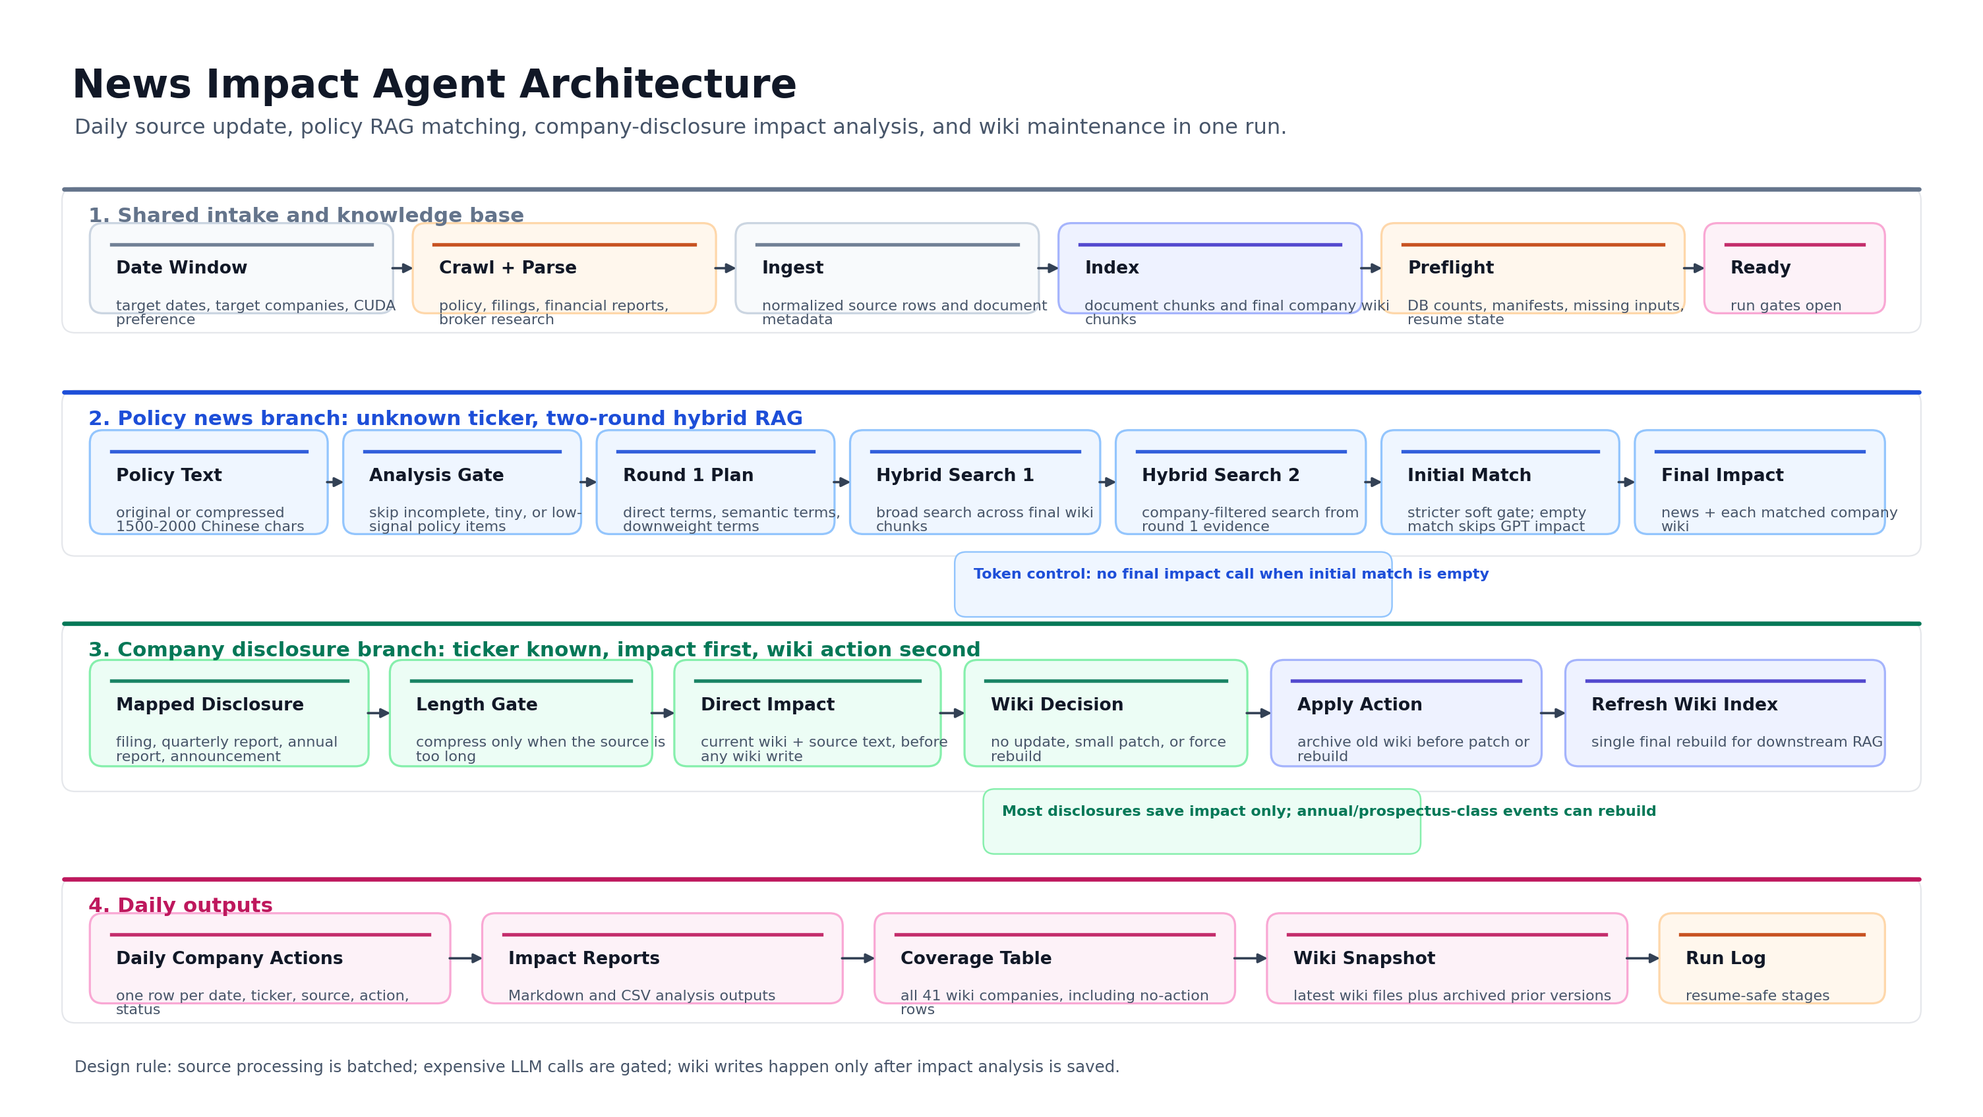
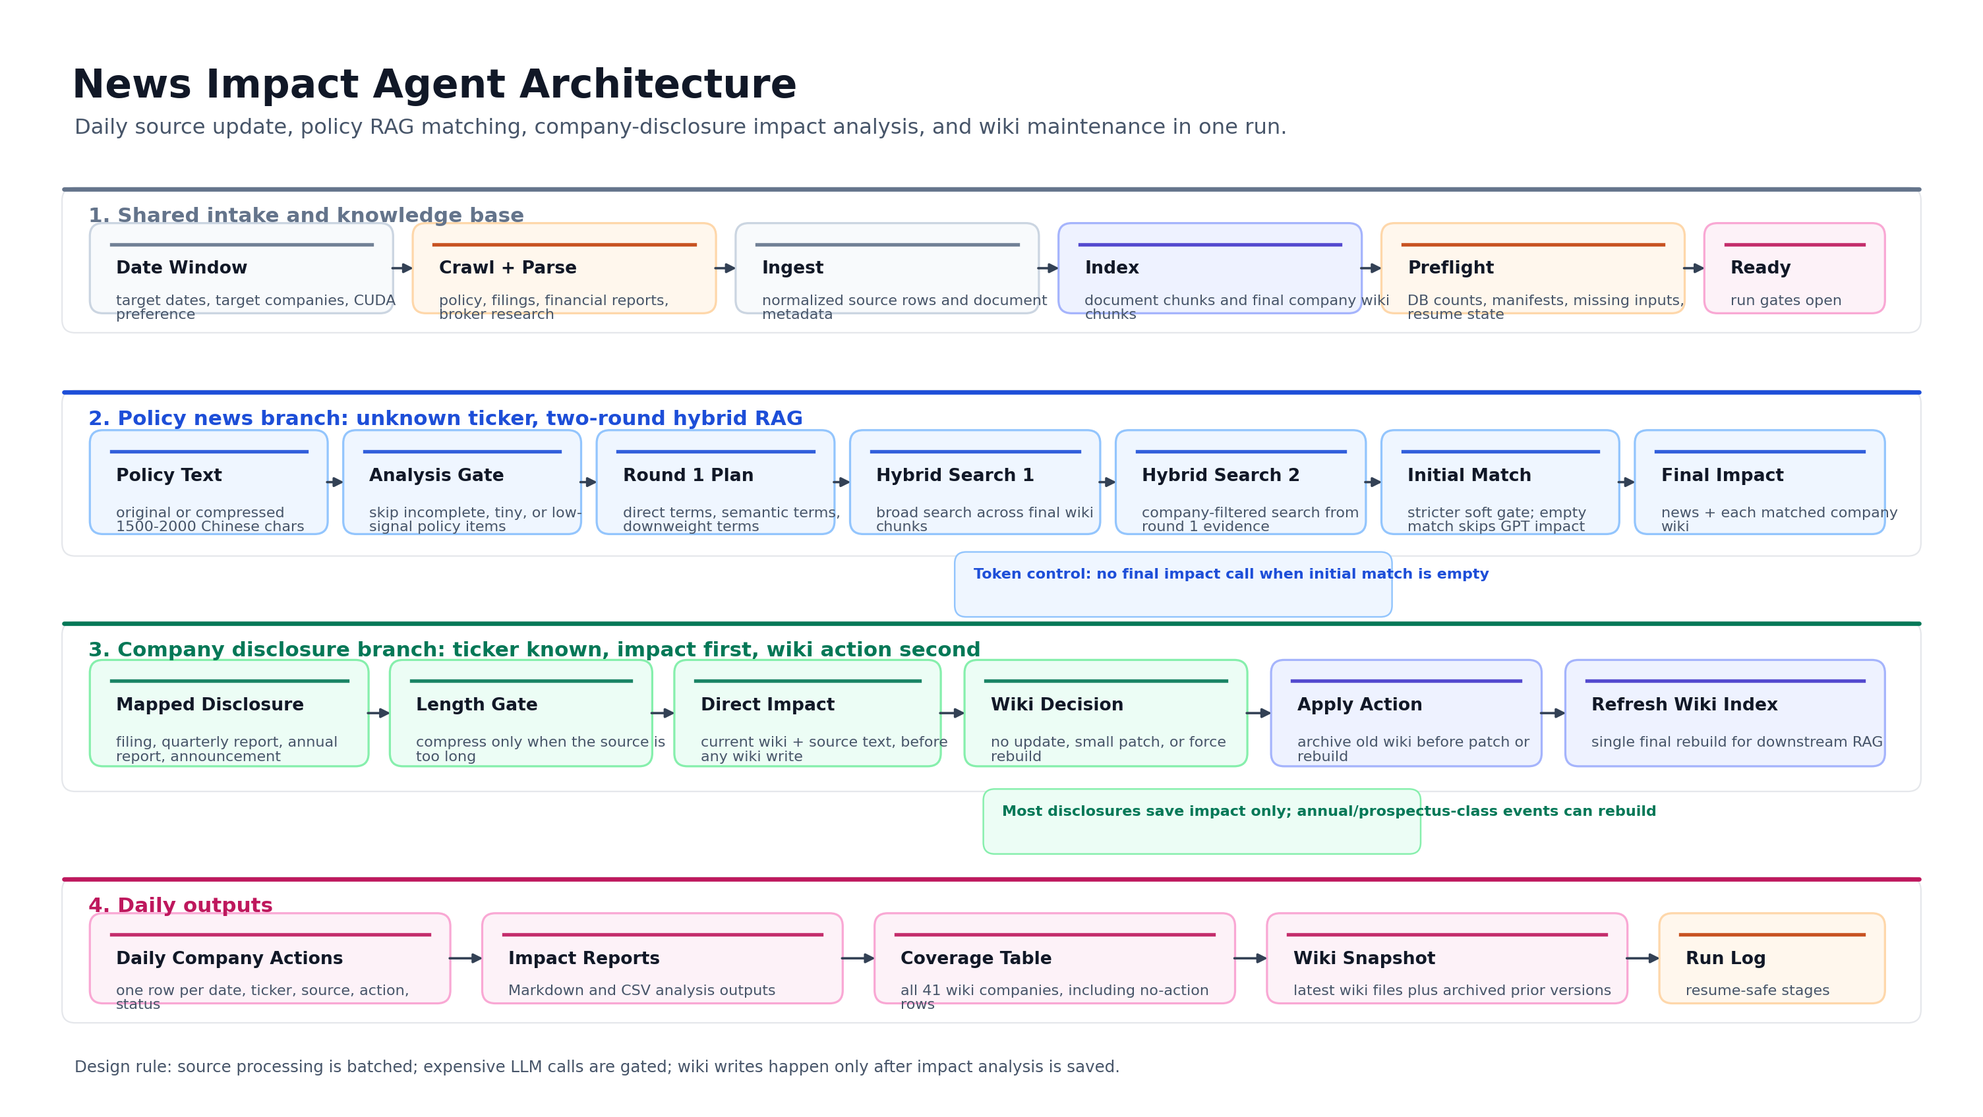
Improve wiki builder architecture documentation

diff --git a/daily_news_impact_pipeline/scripts/render_architecture_assets.py b/daily_news_impact_pipeline/scripts/render_architecture_assets.py
@@ -81,16 +81,27 @@ def box(
     )
     ax.plot([x + 0.18, x + w - 0.18], [y + h - 0.18, y + h - 0.18], color=accent, linewidth=2.4, alpha=0.9)
     ax.text(x + 0.24, y + h - 0.38, title, fontsize=title_size, fontweight="bold", color=INK, va="top")
-    max_lines = 2 if h <= 1.0 else 3
+    if h <= 0.9:
+        max_lines = 1
+        body_y = y + h - 0.70
+        line_spacing = 1.0
+    elif h <= 1.05:
+        max_lines = 2
+        body_y = y + h - 0.80
+        line_spacing = 1.02
+    else:
+        max_lines = 3
+        body_y = y + h - 0.86
+        line_spacing = 1.08
     body_lines = wrap(body, width=max(18, int(w * 11)))[:max_lines]
     ax.text(
         x + 0.24,
-        y + h - 0.86,
+        body_y,
         "\n".join(body_lines),
         fontsize=body_size,
         color=MUTED,
         va="top",
-        linespacing=1.08,
+        linespacing=line_spacing,
     )
 
 
@@ -569,6 +580,298 @@ def render_full_wiki_builder_detail() -> Path:
     return out
 
 
+def render_wiki_build_agent() -> Path:
+    fig, ax = new_canvas(
+        "Company Wiki Build Agent: Mode Map",
+        "Two wiki builders share the same document corpus and publishing contract, but optimize for different latency and depth.",
+    )
+
+    lane(ax, 9.35, 1.75, "Shared corpus and index foundation", "source")
+    foundation = [
+        (1.05, 9.68, 3.35, 0.98),
+        (4.85, 9.68, 3.35, 0.98),
+        (8.65, 9.68, 3.35, 0.98),
+        (12.45, 9.68, 4.05, 0.98),
+        (16.95, 9.68, 4.75, 0.98),
+    ]
+    box(ax, *foundation[0], "Document Corpus", "annual reports, prospectuses, filings, broker research", "source")
+    box(ax, *foundation[1], "LLM-Ready Text", "parsed Markdown with metadata and body sidecars", "source")
+    box(ax, *foundation[2], "Chunk Index", "text, table rows, table bridges, embeddings", "wiki")
+    box(ax, *foundation[3], "Company Identity", "aliases, products, entities, trigger terms", "source")
+    box(ax, *foundation[4], "Preflight", "corpus status, missing index, resume state, run events", "control")
+    arrow_chain(ax, foundation)
+
+    lane(ax, 6.35, 2.05, "Reduced builder: daily default after material source updates", "wiki")
+    reduced = [
+        (1.05, 6.75, 3.3, 1.08),
+        (4.8, 6.75, 3.3, 1.08),
+        (8.55, 6.75, 3.3, 1.08),
+        (12.3, 6.75, 3.5, 1.08),
+        (16.25, 6.75, 5.45, 1.08),
+    ]
+    box(ax, *reduced[0], "Source Rules", "latest annual, latest periodic, origin doc, recent material events", "wiki")
+    box(ax, *reduced[1], "Brainstormer", "Qwen JSON plan: terms, selected docs, downweight terms", "policy")
+    box(ax, *reduced[2], "Retrieval Executor", "heading, direct/body, semantic passes with fallbacks", "wiki")
+    box(ax, *reduced[3], "Source Package", "writer-visible evidence; trace saved separately", "wiki")
+    box(ax, *reduced[4], "Reduced Writer", "Kimi writes compact 2000-4000 Chinese-char wiki from source package only", "wiki")
+    arrow_chain(ax, reduced)
+    callout(ax, 9.4, 5.35, "Brainstormer JSON controls retrieval; it is not evidence for the writer", "wiki")
+
+    lane(ax, 2.85, 2.45, "Full builder: deep company onboarding and review", "policy")
+    full = [
+        (1.05, 3.35, 3.05, 1.1),
+        (4.5, 3.35, 3.05, 1.1),
+        (7.95, 3.35, 3.05, 1.1),
+        (11.4, 3.35, 3.05, 1.1),
+        (14.85, 3.35, 3.05, 1.1),
+        (18.3, 3.35, 4.0, 1.1),
+    ]
+    box(ax, *full[0], "Anchor", "deterministic bundle to anchor memo and first brief", "source")
+    box(ax, *full[1], "Research Loop V1", "router -> 1-4 planner subagents -> evidence bank", "policy")
+    box(ax, *full[2], "Draft + Valuation V1", "draft_1, method selection, assumptions, calculators", "control")
+    box(ax, *full[3], "Critic", "draft, valuation, evidence, gaps, stale facts", "control")
+    box(ax, *full[4], "Research + Valuation V2", "critic-driven second research and refreshed valuation", "policy")
+    box(ax, *full[5], "Final Wiki Writer", "GPT-5.5 high reasoning synthesizes one durable company_wiki.md", "output")
+    arrow_chain(ax, full)
+
+    lane(ax, 0.82, 1.45, "Shared publication contract", "output")
+    publish = [
+        (1.05, 1.05, 4.2, 0.72),
+        (5.75, 1.05, 4.2, 0.72),
+        (10.45, 1.05, 4.2, 0.72),
+        (15.15, 1.05, 3.8, 0.72),
+        (19.45, 1.05, 3.4, 0.72),
+    ]
+    box(ax, *publish[0], "Final Markdown Wiki", "retrieval + reasoning object", "output", title_size=10, body_size=8)
+    box(ax, *publish[1], "Archive Old Version", "previous final wiki is retained", "control", title_size=10, body_size=8)
+    box(ax, *publish[2], "Manifest", "source roles and build metadata", "output", title_size=10, body_size=8)
+    box(ax, *publish[3], "Index Refresh", "hybrid wiki RAG chunks", "wiki", title_size=10, body_size=8)
+    box(ax, *publish[4], "Downstream Impact", "policy and disclosure agents", "output", title_size=10, body_size=8)
+    arrow_chain(ax, publish)
+
+    out = ASSET_DIR / "wiki_build_agent_architecture.png"
+    ASSET_DIR.mkdir(parents=True, exist_ok=True)
+    fig.savefig(out, bbox_inches="tight", facecolor="white")
+    plt.close(fig)
+    return out
+
+
+def render_reduced_wiki_builder_detail() -> Path:
+    fig, ax = new_canvas(
+        "Reduced Wiki Builder: Two-Node Retrieval Package Pipeline",
+        "Reduced wiki generation separates planning from evidence. The writer sees only the deterministic source package.",
+    )
+
+    lane(ax, 9.55, 1.55, "1. Build brainstormer input", "source")
+    inputs = [
+        (1.05, 9.85, 3.3, 0.88),
+        (4.75, 9.85, 3.3, 0.88),
+        (8.45, 9.85, 3.3, 0.88),
+        (12.15, 9.85, 3.3, 0.88),
+        (15.85, 9.85, 5.55, 0.88),
+    ]
+    box(ax, *inputs[0], "Company Info", "ticker, name, industry, valuation context", "source", body_size=9)
+    box(ax, *inputs[1], "Tiny Primer", "small semantic snippets from fixed sources", "source", body_size=9)
+    box(ax, *inputs[2], "Fixed Search Contract", "cached sessions and required JSON shape", "control", body_size=9)
+    box(ax, *inputs[3], "File Availability", "fixed sources, announcement candidates, research candidates", "source", body_size=9)
+    box(ax, *inputs[4], "Brainstormer Input", "system prompt + cached fixed context + dynamic user prompt", "policy", body_size=9)
+    arrow_chain(ax, inputs)
+
+    lane(ax, 6.65, 2.05, "2. Brainstormer node: retrieval control only", "policy")
+    plan = [
+        (1.05, 7.08, 3.2, 1.1),
+        (4.7, 7.08, 3.2, 1.1),
+        (8.35, 7.08, 3.2, 1.1),
+        (12.0, 7.08, 3.2, 1.1),
+        (15.65, 7.08, 5.75, 1.1),
+    ]
+    box(ax, *plan[0], "Qwen Brainstormer", "thinking + explicit cache, JSON content required", "policy")
+    box(ax, *plan[1], "Company Terms", "products, technologies, customers, assets, risks, stages", "policy")
+    box(ax, *plan[2], "Selected Docs", "up to 6 announcements and 2 research reports", "policy")
+    box(ax, *plan[3], "Session Overrides", "extra keywords and semantic queries per session", "policy")
+    box(ax, *plan[4], "Negative Terms", "meeting, dividend, governance, legal, sponsor and other noise", "control")
+    arrow_chain(ax, plan)
+    callout(ax, 7.2, 5.78, "Plan doc_ids are validated against corpus; invalid selections are logged and ignored", "policy")
+
+    lane(ax, 3.55, 2.35, "3. Deterministic source package executor", "wiki")
+    executor = [
+        (1.05, 4.02, 3.05, 1.15),
+        (4.5, 4.02, 3.05, 1.15),
+        (7.95, 4.02, 3.05, 1.15),
+        (11.4, 4.02, 3.05, 1.15),
+        (14.85, 4.02, 3.05, 1.15),
+        (18.3, 4.02, 4.0, 1.15),
+    ]
+    box(ax, *executor[0], "Source Selection", "fixed sources first; plan selections with fallback rules", "wiki")
+    box(ax, *executor[1], "8 Sessions", "surface, business, products, counterparties, finance, capital, industry, freshness", "wiki")
+    box(ax, *executor[2], "Search Passes", "heading, body/direct, semantic", "wiki")
+    box(ax, *executor[3], "Rerank + Diversity", "dedupe, downweight noise, doc/heading/table caps", "wiki")
+    box(ax, *executor[4], "Expansion", "same chunk, same heading, table, neighbor window", "wiki")
+    box(ax, *executor[5], "Fallback", "relaxed heading, broader chunk kinds, base semantic, thin section if still missing", "control")
+    arrow_chain(ax, executor)
+
+    lane(ax, 1.0, 1.75, "4. Writer and audit artifacts", "output")
+    writer = [
+        (1.05, 1.35, 3.9, 0.95),
+        (5.45, 1.35, 3.9, 0.95),
+        (9.85, 1.35, 3.9, 0.95),
+        (14.25, 1.35, 3.9, 0.95),
+        (18.65, 1.35, 3.65, 0.95),
+    ]
+    box(ax, *writer[0], "Source Package", "only Sources, Session, Selected text enter writer prompt", "wiki")
+    box(ax, *writer[1], "Retrieval Trace", "full terms, chunk IDs, scores, passes saved beside prompt", "control")
+    box(ax, *writer[2], "Kimi Wiki Writer", "writes from source package only", "policy")
+    box(ax, *writer[3], "Reduced Wiki", "2000-4000 Chinese chars; Markdown; source-bound", "output")
+    box(ax, *writer[4], "Usage + Run Meta", "cost, cache, attempts, parse status", "output")
+    arrow_chain(ax, writer)
+
+    out = ASSET_DIR / "reduced_wiki_builder_detail.png"
+    ASSET_DIR.mkdir(parents=True, exist_ok=True)
+    fig.savefig(out, bbox_inches="tight", facecolor="white")
+    plt.close(fig)
+    return out
+
+
+def render_full_wiki_builder_detail() -> Path:
+    fig, ax = new_canvas(
+        "Full Wiki Builder: v3 Artifact DAG",
+        "The full agent builds one final company_wiki.md from anchor research, two company research loops, valuation loops, critic feedback, and final synthesis.",
+    )
+
+    lane(ax, 9.7, 1.45, "1. Anchor and first business agenda", "source")
+    anchor = [
+        (1.05, 9.98, 3.45, 0.82),
+        (4.95, 9.98, 3.45, 0.82),
+        (8.85, 9.98, 3.45, 0.82),
+        (12.75, 9.98, 3.45, 0.82),
+        (16.65, 9.98, 4.7, 0.82),
+    ]
+    box(ax, *anchor[0], "Anchor Source Bundle", "latest annual, periodic-like, prospectus-like", "source", body_size=8)
+    box(ax, *anchor[1], "Anchor", "long-form anchor_memo", "policy", body_size=8)
+    box(ax, *anchor[2], "Company Brief V1", "short repeated-read briefing", "policy", body_size=8)
+    box(ax, *anchor[3], "Research Goals V1", "first company-research agenda", "policy", body_size=8)
+    box(ax, *anchor[4], "Corpus Manifest", "raw families, post-annual windows, stock reports", "source", body_size=8)
+    arrow_chain(ax, anchor)
+
+    lane(ax, 7.05, 1.7, "2. Round-one company research and draft", "policy")
+    research1 = [
+        (1.05, 7.38, 3.1, 0.95),
+        (4.55, 7.38, 3.1, 0.95),
+        (8.05, 7.38, 3.1, 0.95),
+        (11.55, 7.38, 3.1, 0.95),
+        (15.05, 7.38, 3.1, 0.95),
+        (18.55, 7.38, 3.8, 0.95),
+    ]
+    box(ax, *research1[0], "Router V1", "1-4 operational subagents", "policy", body_size=8)
+    box(ax, *research1[1], "Planner Loop V1", "tools, working memory, done state", "policy", body_size=8)
+    box(ax, *research1[2], "Evidence Bank V1", "committed source-located facts", "control", body_size=8)
+    box(ax, *research1[3], "Loop Note V1", "track-keyed mutable synthesis", "control", body_size=8)
+    box(ax, *research1[4], "Draft Writer V1", "anchor + evidence + note", "wiki", body_size=8)
+    box(ax, *research1[5], "Draft 1", "first full company draft", "wiki", body_size=8)
+    arrow_chain(ax, research1)
+
+    lane(ax, 4.4, 1.7, "3. Valuation v1 and critic", "control")
+    valuation1 = [
+        (1.05, 4.73, 3.25, 0.95),
+        (4.75, 4.73, 3.25, 0.95),
+        (8.45, 4.73, 3.25, 0.95),
+        (12.15, 4.73, 3.25, 0.95),
+        (15.85, 4.73, 3.25, 0.95),
+        (19.55, 4.73, 3.0, 0.95),
+    ]
+    box(ax, *valuation1[0], "Method Selector", "choose 3 methods from 9-method library", "control", body_size=8)
+    box(ax, *valuation1[1], "Valuation Loop V1", "router + planner loop + evidence bank", "control", body_size=8)
+    box(ax, *valuation1[2], "Assumption Reasoners", "parallel method-specific memos", "control", body_size=8)
+    box(ax, *valuation1[3], "JSON + Calculators", "deterministic bear/base/bull outputs", "control", body_size=8)
+    box(ax, *valuation1[4], "Valuation Memo V1", "anchors, checks, sensitivity, fragility", "control", body_size=8)
+    box(ax, *valuation1[5], "First Critic", "draft + valuation + evidence + external freshness checks", "output", body_size=8)
+    arrow_chain(ax, valuation1)
+
+    lane(ax, 1.45, 2.0, "4. Critic-driven round two and final synthesis", "output")
+    final = [
+        (1.05, 1.9, 3.15, 1.08),
+        (4.65, 1.9, 3.15, 1.08),
+        (8.25, 1.9, 3.15, 1.08),
+        (11.85, 1.9, 3.15, 1.08),
+        (15.45, 1.9, 3.15, 1.08),
+        (19.05, 1.9, 3.45, 1.08),
+    ]
+    box(ax, *final[0], "Brief V2", "anchor + draft_1 + critic_1", "policy")
+    box(ax, *final[1], "Router + Loop V2", "critic gaps drive second company research", "policy")
+    box(ax, *final[2], "Valuation Refresh V2", "fresh base packet, v2 assumptions, calculators", "control")
+    box(ax, *final[3], "Final Input Packet", "anchor, draft, critic, evidence banks, valuation memos, notes", "source")
+    box(ax, *final[4], "Final Wiki Writer", "GPT-5.5 high reasoning with web search", "output")
+    box(ax, *final[5], "company_wiki.md", "one durable integrated company wiki", "output")
+    arrow_chain(ax, final)
+
+    out = ASSET_DIR / "full_wiki_builder_detail.png"
+    ASSET_DIR.mkdir(parents=True, exist_ok=True)
+    fig.savefig(out, bbox_inches="tight", facecolor="white")
+    plt.close(fig)
+    return out
+
+
+def render_full_wiki_research_loop_detail() -> Path:
+    fig, ax = new_canvas(
+        "Full Wiki Research Loop Subagent Runtime",
+        "Routers frame the loop. Planner subagents run tool turns, commit evidence, update loop notes, and stop when enough facts are gathered.",
+    )
+
+    lane(ax, 9.25, 1.75, "1. Router creates operational subagents", "policy")
+    router = [
+        (1.05, 9.58, 3.35, 0.98),
+        (4.85, 9.58, 3.35, 0.98),
+        (8.65, 9.58, 3.35, 0.98),
+        (12.45, 9.58, 3.35, 0.98),
+        (16.25, 9.58, 5.15, 0.98),
+    ]
+    box(ax, *router[0], "Router Input", "company brief or draft context, goals, critic, manifest", "source")
+    box(ax, *router[1], "Research Router", "creates 1-4 subagents", "policy")
+    box(ax, *router[2], "Assignments", "track ownership and specific gaps", "policy")
+    box(ax, *router[3], "Status Board", "active tracks, budget state, done flags", "control")
+    box(ax, *router[4], "Loop State", "shared evidence bank, loop mutable note, per-agent working memory", "control")
+    arrow_chain(ax, router)
+
+    lane(ax, 5.75, 2.45, "2. Planner turn loop", "wiki")
+    turn = [
+        (1.05, 6.18, 3.05, 1.1),
+        (4.5, 6.18, 3.05, 1.1),
+        (7.95, 6.18, 3.05, 1.1),
+        (11.4, 6.18, 3.05, 1.1),
+        (14.85, 6.18, 3.05, 1.1),
+        (18.3, 6.18, 4.0, 1.1),
+    ]
+    box(ax, *turn[0], "Subagent View", "assignment, brief, loop note, evidence, manifest, working memory", "source")
+    box(ax, *turn[1], "Wiki Planner Turn", "one Kimi API request with tools", "policy")
+    box(ax, *turn[2], "Tool Calls", "search, expand, web, commit, note, done", "wiki")
+    box(ax, *turn[3], "Runtime Executes", "tool results are persisted", "control")
+    box(ax, *turn[4], "Merge", "new evidence, updated note, new working memory", "control")
+    box(ax, *turn[5], "Next Turn", "still-active subagents see updated shared state", "wiki")
+    arrow_chain(ax, turn)
+    callout(ax, 8.85, 4.72, "Company and valuation loops use separate evidence banks; final writer sees completed loop artifacts", "wiki")
+
+    lane(ax, 2.15, 2.25, "3. Tools and stop semantics", "output")
+    tools = [
+        (1.05, 2.65, 3.4, 1.05),
+        (4.9, 2.65, 3.4, 1.05),
+        (8.75, 2.65, 3.4, 1.05),
+        (12.6, 2.65, 3.4, 1.05),
+        (16.45, 2.65, 4.95, 1.05),
+    ]
+    box(ax, *tools[0], "Corpus Tools", "search_corpus and expand_corpus_context", "wiki")
+    box(ax, *tools[1], "Freshness Tool", "limited web_search for corpus-external gaps", "output")
+    box(ax, *tools[2], "Commit Evidence", "source-located facts become evidence IDs", "control")
+    box(ax, *tools[3], "Update Note", "track-keyed mutable synthesis", "control")
+    box(ax, *tools[4], "Stop", "done_gathering per agent, or all done, or max_turns=6", "output")
+    arrow_chain(ax, tools)
+
+    out = ASSET_DIR / "full_wiki_research_loop_detail.png"
+    ASSET_DIR.mkdir(parents=True, exist_ok=True)
+    fig.savefig(out, bbox_inches="tight", facecolor="white")
+    plt.close(fig)
+    return out
+
+
 def main() -> int:
     print(render_news_impact_agent())
     print(render_wiki_build_agent())
@@ -576,6 +879,7 @@ def main() -> int:
     print(render_company_disclosure_branch_detail())
     print(render_reduced_wiki_builder_detail())
     print(render_full_wiki_builder_detail())
+    print(render_full_wiki_research_loop_detail())
     return 0
 
 

diff --git a/README.md b/README.md
@@ -1,6 +1,12 @@
 # News Impact Agent
 
-This repository presents a production-style design for a daily financial news impact agent. It focuses on Chinese A-share policy news, company disclosures, research reports, company wiki maintenance, and daily impact reporting.
+News Impact Agent is an agentic financial research pipeline that turns newly ingested policy news, company disclosures, financial reports, and broker research into stock-level impact analysis and continuously maintained company wikis.
+
+The project is designed around a simple definition:
+
+> Given a date range and a covered stock universe, collect and parse new information, identify which companies are plausibly affected, analyze the impact against durable company knowledge, and update the company wiki only when the new source changes the investable understanding of the business.
+
+The implementation focuses on Chinese A-share workflows, but the architecture is general: source ingestion, document indexing, hybrid RAG matching, per-company impact reasoning, wiki patch/rebuild decisions, and daily coverage outputs.
 
 The core project lives in:
 

diff --git a/daily_news_impact_pipeline/REPO_README.md b/daily_news_impact_pipeline/REPO_README.md
@@ -1,6 +1,12 @@
 # News Impact Agent
 
-This repository presents a production-style design for a daily financial news impact agent. It focuses on Chinese A-share policy news, company disclosures, research reports, company wiki maintenance, and daily impact reporting.
+News Impact Agent is an agentic financial research pipeline that turns newly ingested policy news, company disclosures, financial reports, and broker research into stock-level impact analysis and continuously maintained company wikis.
+
+The project is designed around a simple definition:
+
+> Given a date range and a covered stock universe, collect and parse new information, identify which companies are plausibly affected, analyze the impact against durable company knowledge, and update the company wiki only when the new source changes the investable understanding of the business.
+
+The implementation focuses on Chinese A-share workflows, but the architecture is general: source ingestion, document indexing, hybrid RAG matching, per-company impact reasoning, wiki patch/rebuild decisions, and daily coverage outputs.
 
 The core project lives in:
 

diff --git a/daily_news_impact_pipeline/README.md b/daily_news_impact_pipeline/README.md
@@ -1,5 +1,11 @@
 # Daily News Impact One-Click Pipeline
 
+## Project Definition
+
+News Impact Agent is an agentic financial research pipeline that turns newly ingested policy news, company disclosures, financial reports, and broker research into stock-level impact analysis and continuously maintained company wikis.
+
+Given a date range and a covered stock universe, the system collects and parses new information, identifies which companies are plausibly affected, analyzes the impact against durable company knowledge, and updates the company wiki only when the new source changes the investable understanding of the business.
+
 ## 目标
 
 这个目录封装一个日度总控 pipeline。给定中国自然日日期范围，它完成：

diff --git a/daily_news_impact_pipeline/WIKI_BUILD_AGENT.md b/daily_news_impact_pipeline/WIKI_BUILD_AGENT.md
@@ -108,6 +108,10 @@ Full builder architecture:
 
 ![Full wiki builder detail](open_source_assets/full_wiki_builder_detail.png)
 
+Research loop subagent runtime:
+
+![Full wiki research loop detail](open_source_assets/full_wiki_research_loop_detail.png)
+
 Default research tracks:
 
 | Track | Mission |
